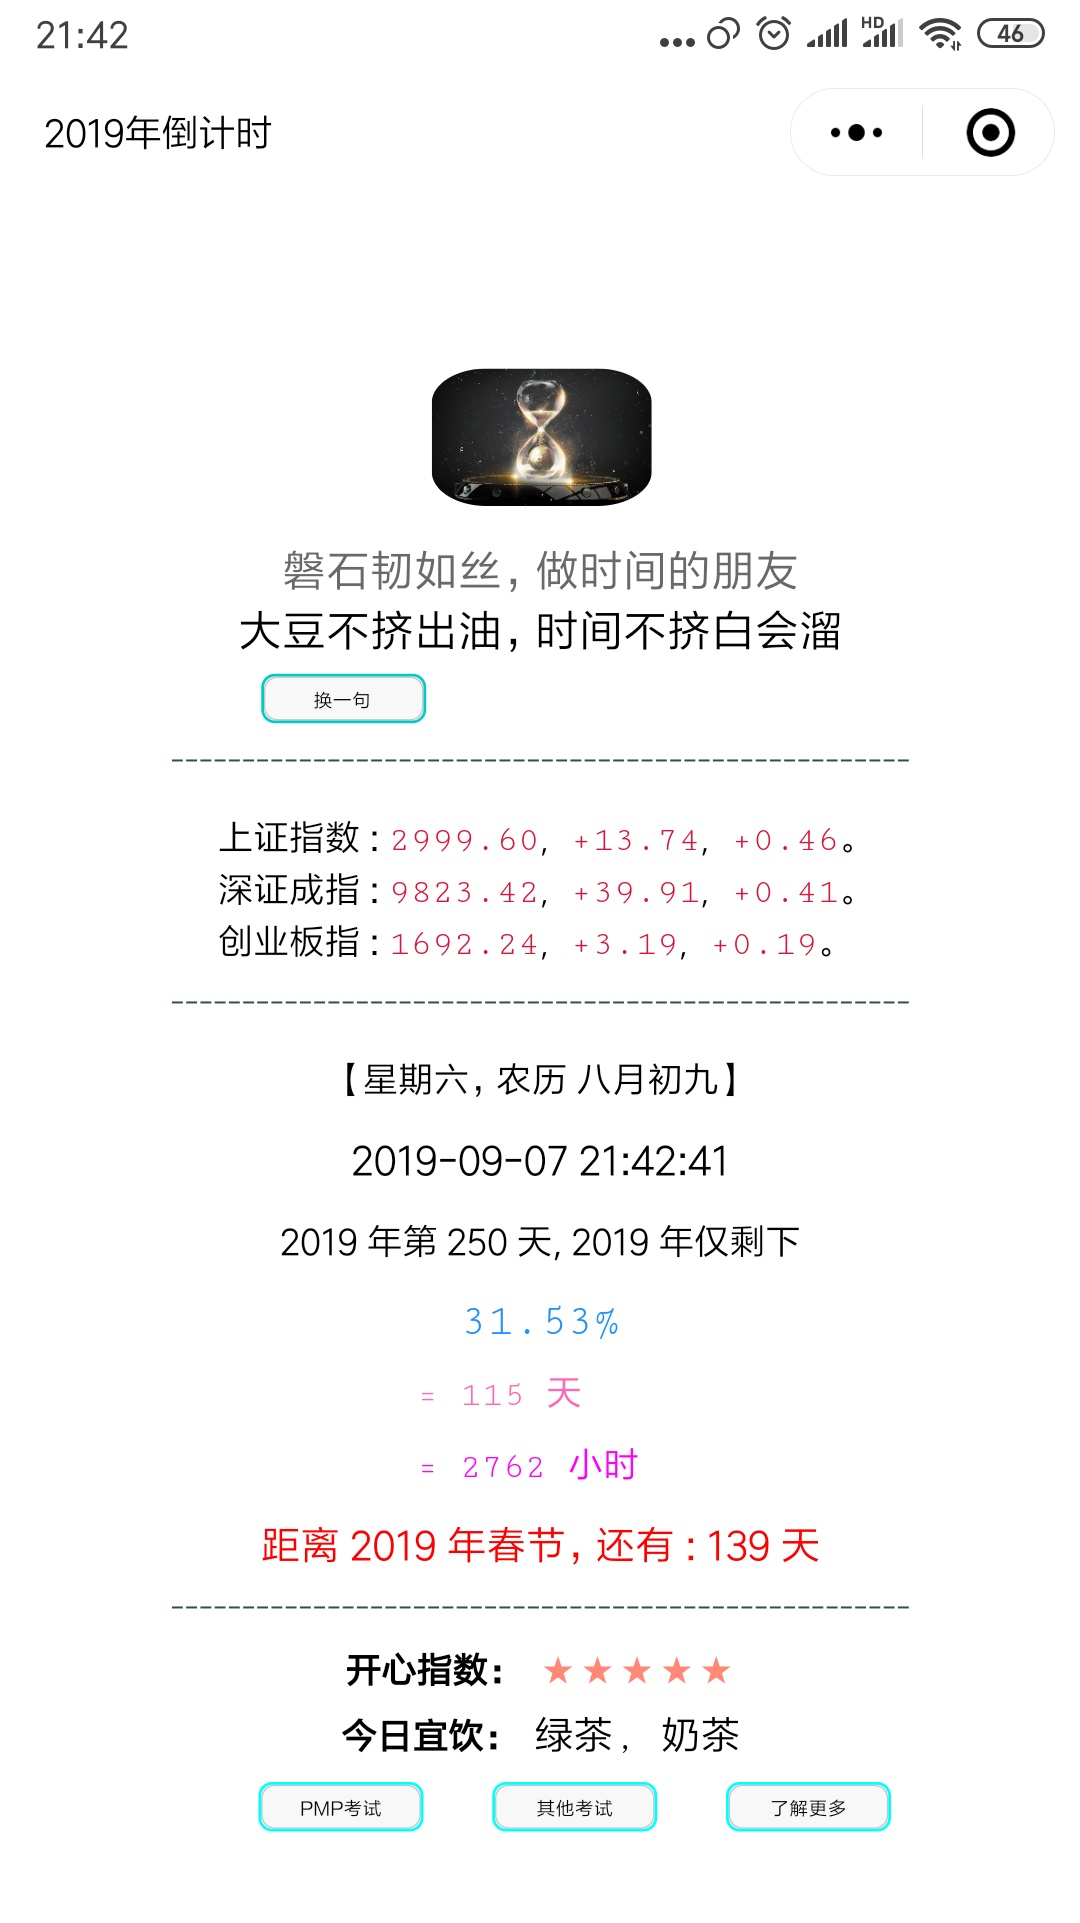
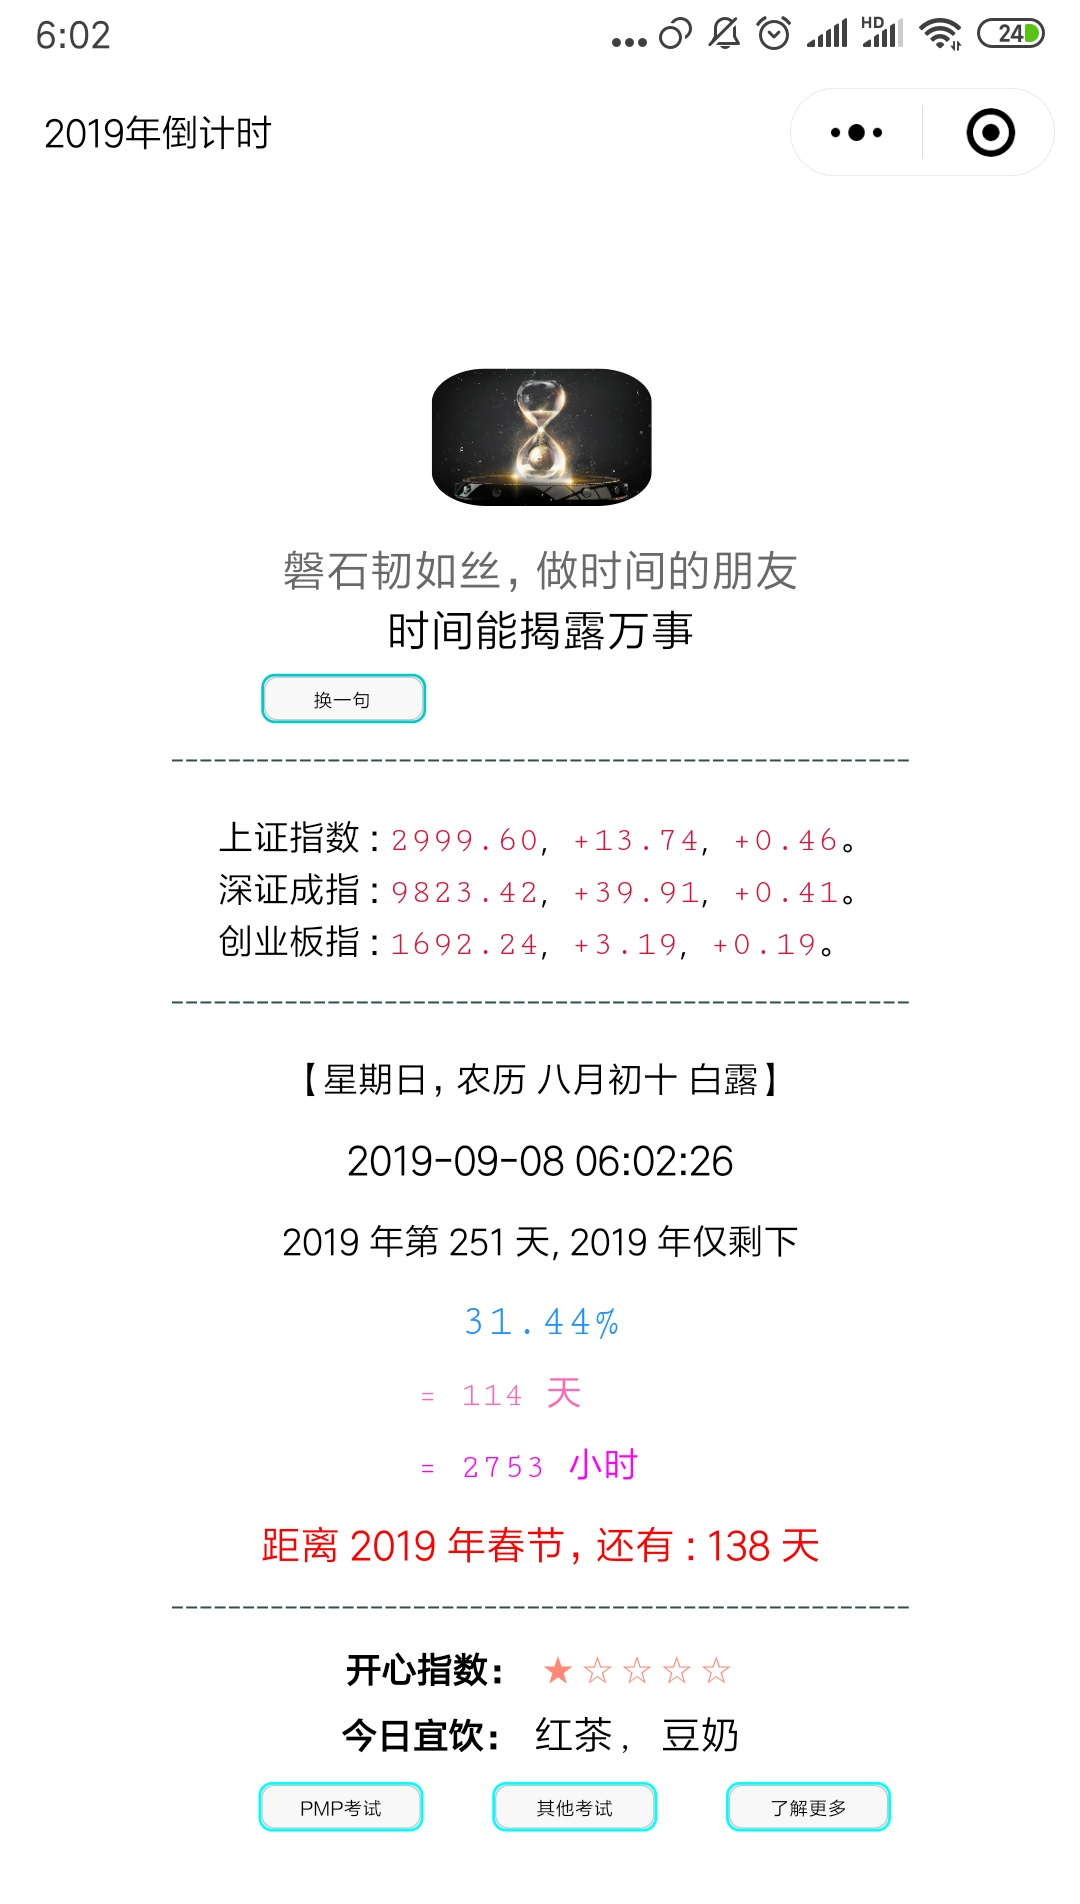
完善关于我的内容

diff --git a/source/_posts/001_2-FD_my_life_records-2019.md b/source/_posts/001_2-FD_my_life_records-2019.md
@@ -1,5 +1,5 @@
 ---
-title: 坚持的力量之数据人生-2019年9月7日
+title: 坚持的力量之数据人生-2019年9月8日
 tags:
   - 数据人生
   - 参考模板
@@ -20,14 +20,14 @@ keywords:
   - 宽978高553
 photos:
   - '/images/001_2/photos.png'
-description: 今天：2019 年 9 月 7 日，2019 年仅剩下 115 天。坚持记录和分析生活中的数据、信息和事件，尊重历史数据、信息和事件，人生将会更美好。
-date: 2019-09-07 00:02:05
+description: 今天：2019 年 9 月 8 日，2019 年仅剩下 114 天。坚持记录和分析生活中的数据、信息和事件，尊重历史数据、信息和事件，人生将会更美好。
+date: 2019-09-08 00:02:05
 ---
 <script type="text/javascript" src="/js/src/bai.js"></script>
 
-### 坚持的力量之数据人生-2019年9月7日
+### 坚持的力量之数据人生-2019年9月8日
 ------
-> 今天：2019 年 9 月 7 日，2019 年仅剩下 115 天。坚持记录和分析生活中的数据、信息和事件，尊重历史数据、信息和事件，人生将会更美好。
+> 今天：2019 年 9 月 8 日，2019 年仅剩下 114 天。坚持记录和分析生活中的数据、信息和事件，尊重历史数据、信息和事件，人生将会更美好。
 >
 > 序言：坚持记录和分析生活中的数据、信息和事件，尊重历史数据、信息和事件，人生将会更美好。
 
@@ -67,14 +67,14 @@ date: 2019-09-07 00:02:05
 
 | 序号 |       名称                                            |  类型  | 开始/结束日期 | 总天数 |          备注                           |
 | :--: | :---------------------------------------------------: | :----: | :-----------: | :----: | :-------------------------------------: |
-|  1   | <font color="#FF0000" size=2>读书荐书第 4/4 更</font> | 倒计时 | 2019/10/01    |  23    | 开始时间：2019/7/1                      |
-|  2   | <font color="#FF0000" size=2>重要节点</font>          | 倒计时 | 2020/03/01    |  179   | 开始时间：2018/6/15 剩余 10 个月        |
-|  3   | <font color="#0000FF" size=2>来上海</font>            | 计时   | 2011/06/25    |  2936  | 第 8 年进行中                           |
-|  4   | <font color="#0000FF" size=2>莫名其妙的计时</font>    | 计时   | 2018/11/12    |  295   | 莫名其妙的计时，希望永远不会停 ！！！   |
+|  1   | <font color="#FF0000" size=2>读书荐书第 4/4 更</font> | 倒计时 | 2019/10/01    |  22    | 开始时间：2019/7/1                      |
+|  2   | <font color="#FF0000" size=2>重要节点</font>          | 倒计时 | 2020/03/01    |  178   | 开始时间：2018/6/15 剩余 10 个月        |
+|  3   | <font color="#0000FF" size=2>来上海</font>            | 计时   | 2011/06/25    |  2937  | 第 8 年进行中                           |
+|  4   | <font color="#0000FF" size=2>莫名其妙的计时</font>    | 计时   | 2018/11/12    |  296   | 莫名其妙的计时，希望永远不会停 ！！！   |
 |  5   | <font color="#FF00FF" size=2>博客总计博文</font>      | 计数   | 2018/08/01    |  207   | [博客](/archives) 博文总计数目          |
 |  6   | <font color="#FF00FF" size=2>读书心得札记</font>      | 计数   | 2018/05/26    |  69    | [读书心得笔记并做笔记](/tags/札记人生/) |
 |  7   | <font color="#FF00FF" size=2>五篇好文推荐</font>      | 计数   | 2018/10/24    |  50    | [美文推荐](/tags/美文推荐/)             |
-|  8   | <font color="#FF00FF" size=2>公众号更新</font>        | 计数   | 2018/12/01    |  106   | [微信公众号（4 篇删除）](https://mp.weixin.qq.com/s/xxIkfGMFU7BaCeCJtdrtDg) |
+|  8   | <font color="#FF00FF" size=2>公众号更新</font>        | 计数   | 2018/12/01    |  107   | [微信公众号（4 篇删除）](https://mp.weixin.qq.com/s/xxIkfGMFU7BaCeCJtdrtDg) |
 
 #### 2. ❤ 今天记账了吗？记了，✔。 ❤
 ##### 2.1 记账信息详情
@@ -82,11 +82,12 @@ date: 2019-09-07 00:02:05
 
 | 日期                                   | 记账新增记录 | 记账总记录 | 记账总天数 | 记账时间      | 备注     |
 | :------:                               | :------:     | :------:   | :------:   | :------:      | :------: |
-|<font color="#000000"> 20190903 </font> | 3            | 10756      | 3116       | 8 年零 187 天 | 无       |
 |<font color="#000000"> 20190904 </font> | 5            | 10761      | 3117       | 8 年零 188 天 | 无       |
 |<font color="#000000"> 20190905 </font> | 4            | 10765      | 3118       | 8 年零 189 天 | 无       |
 |<font color="#000000"> 20190906 </font> | 27           | 10792      | 3119       | 8 年零 190 天 | 无       |
-|<font color="#FF0000"> 20190907 </font> | 4            | 10796      | 3120       | 8 年零 191 天 | 无       |
+|<font color="#000000"> 20190907 </font> | 4            | 10796      | 3120       | 8 年零 191 天 | 无       |
+|<font color="#FF0000"> 20190908 </font> | 12           | 10808      | 3121       | 8 年零 192 天 | 无       |
+
 
 
 #### 3. 历史数据汇总

diff --git a/source/_posts/001_1-FD_2018_year_all_checker-2019.md b/source/_posts/001_1-FD_2018_year_all_checker-2019.md
@@ -1,5 +1,5 @@
 ---
-title: 2019年每日日常综合打卡-2019年9月7日
+title: 2019年每日日常综合打卡-2019年9月8日
 tags:
   - 数据人生
   - 参考模板
@@ -21,14 +21,14 @@ keywords:
   - 宽978高553
 photos:
   - '/images/001_1/photos.png'
-description: 今天：2019 年 9 月 7 日，2019 年仅剩下 115 天。每天坚持打卡，9 月份针对每个任务打卡，慢慢来，一切都会更好的。
-date: 2019-09-06 00:01:01
+description: 今天：2019 年 9 月 8 日，2019 年仅剩下 114 天。每天坚持打卡，9 月份针对每个任务打卡，慢慢来，一切都会更好的。
+date: 2019-09-08 00:01:01
 ---
 <script type="text/javascript" src="/js/src/bai.js"></script>
 
-### 2019年每日日常综合打卡-2019年9月7日
+### 2019年每日日常综合打卡-2019年9月8日
 ---
-> 今天：2019 年 9 月 7 日，2018 年仅剩下 115 天。每日打卡，9 月份针对每个任务打卡，慢慢来，一切都会更好的。
+> 今天：2019 年 9 月 8 日，2018 年仅剩下 114 天。每日打卡，9 月份针对每个任务打卡，慢慢来，一切都会更好的。
 ---
 
 #### 2019 年年历
@@ -58,7 +58,7 @@ date: 2019-09-06 00:01:01
 |  5 |六 ⭕  |二 ⭕  |二 ⭕  |五 ⭕  |日 ⭕  |三 ⭕  |五 ⭕  |一 ⭕  |四 ⭕  |六     |二     |四     |
 |  6 |日 ⭕  |三 ⭕  |三 ⭕  |六 ⭕  |一 ⭕  |四 ⭕  |六 ⭕  |二 ⭕  |五 ⭕  |日     |三     |五     |
 |  7 |一 ⭕  |四 ⭕  |四 ⭕  |日 ⭕  |二 ⭕  |五 ⭕  |日 ⭕  |三 ⭕  |六 ⭕  |一     |四     |六     |
-|  8 |二 ⭕  |五 ⭕  |五 ⭕  |一 ⭕  |三 ⭕  |六 ⭕  |一 ⭕  |四 ⭕  |日     |二     |五     |日     |
+|  8 |二 ⭕  |五 ⭕  |五 ⭕  |一 ⭕  |三 ⭕  |六 ⭕  |一 ⭕  |四 ⭕  |日 ⭕  |二     |五     |日     |
 |  9 |三 ⭕  |六 ⭕  |六 ⭕  |二 ⭕  |四 ⭕  |日 ⭕  |二 ⭕  |五 ⭕  |一     |三     |六     |一     |
 | 10 |四 ⭕  |日 ⭕  |日 ⭕  |三 ⭕  |五 ⭕  |一 ⭕  |三 ⭕  |六 ⭕  |二     |四     |日     |二     |
 | 11 |五 ⭕  |一 ⭕  |一 ⭕  |四 ⭕  |六 ⭕  |二 ⭕  |四 ⭕  |日 ⭕  |三     |五     |一     |三     |
@@ -96,7 +96,7 @@ date: 2019-09-06 00:01:01
 |  5 <font color="#000000">四</font> | ⭕        | ⭕        | ⭕        | ⭕        | ⭕        | ⭕        |           |
 |  6 <font color="#000000">五</font> | ⭕        | ⭕        | ⭕        | ⭕        | ⭕        | ⭕        |           |
 |  7 <font color="#FF0000">六</font> | ⭕        | ⭕        | ⭕        | ⭕        | ⭕        | ⭕        |           |
-|  8 <font color="#FF0000">日</font> |           |           |           |           |           |           |           |
+|  8 <font color="#FF0000">日</font> | ⭕        | ⭕        | ⭕        | ⭕        | ⭕         | ⭕        |           |
 |  9 <font color="#000000">一</font> |           |           |           |           |           |           |           |
 | 10 <font color="#000000">二</font> |           |           |           |           |           |           |           |
 | 11 <font color="#000000">三</font> |           |           |           |           |           |           |           |

diff --git a/source/about/index.md b/source/about/index.md
@@ -1,6 +1,6 @@
 ---
 title: 关于我
-date: 2018-10-17 16:43:20
+date: 2019-09-08 06:00:20
 ---
 
 ### [关于我](https://mp.weixin.qq.com/s/xxIkfGMFU7BaCeCJtdrtDg)
@@ -94,8 +94,33 @@ date: 2018-10-17 16:43:20
 >
 > 2019 年 7 月 19 日，4 月 20 日开始减肥，截止 7 月 19 日，减肥结束：减肥 40 斤，从 170 斤，减肥到 130 斤，后续保持在 135 斤以内即可的。[减肥心得](http://t.cn/AiYzjhwx)
 
+* 小袋鼠川沙幼儿园入院记。
+> 2015 年 4 月 15 日，小袋鼠幼儿园入园网上登记，中午 12:00 开始开通登记。
+>
+> 2019 年 5 月 11 日，小袋鼠入园面试，川沙幼儿园。
+>
+> 2019 年 6 月 12 日，小袋鼠被川沙幼儿园华夏部录取， 13 日领录取通知书。
+>
+> 2019 年 6 月 16 日，小袋鼠入园，办理收费用农行卡（小袋鼠第一张银行卡）。
+>
+> 2019 年 6 月 25 日，小袋鼠入园，幼儿园入园家长会。
+>
+> 2019 年 7 月 20 日，小袋鼠入园，石文磊老师、陈晓璐老师家访，小袋鼠小四班。
+>
+> 2019 年 8 月 7 日，小袋鼠入园体检，黄龙卫生院。
+>
+> 2019 年 8 月 18 日，小袋鼠入园证件照，1 寸 9 张、2 寸 6 张。
+>
+> 2019 年 8 月 30 日，小袋鼠入园体验、第一次亲子活动，床位号 11 号。
+>
+> 2019 年 9 月 2 日，小袋鼠正式入园，成为一名幼儿园的小朋友。
+
 * 2019 年 7 月 25 日，[我的 Github](https://github.com/XingangShi) 添加新的个人公开项目，不仅仅是作为私有项目和博客的记录。
 
 * 2019 年 7 月 27 日，开始学习 [spacemacs](http://spacemacs.org/)，希望通过编辑器的使用学会 lisp。
 
 * 2019 年 7 月 31 日，[第 200 篇博文](/archives/a3b39d52.html)。
+
+* 2019 年 8 月 31 日，微信公众号：磐石韧如丝，第 100 篇文章，[我是如何 3 个月减肥 40 斤的？](http://t.cn/AiEA5k3N)。
+
+* 2019 年 9 月 8 日，家里第一张去影楼拍的全家福。
